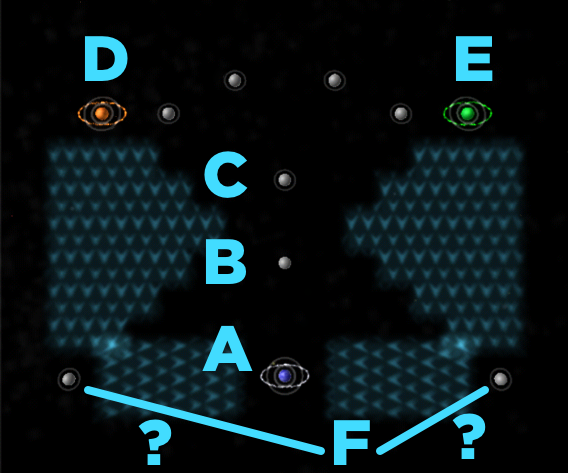
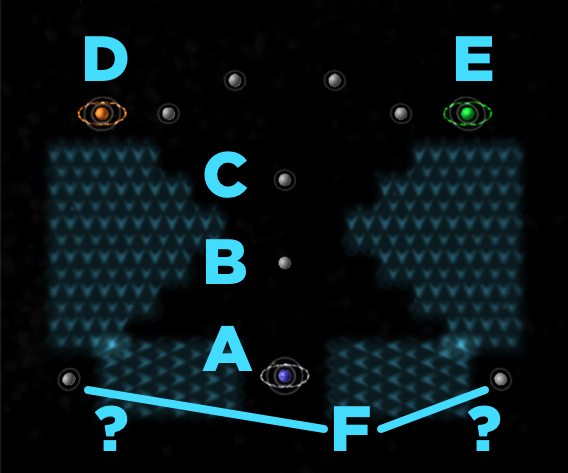
[13-bootes-force/shortcut] Add note about sending units to planet F.

Changed region(s): [[0.1496, 0.7992, 0.8979, 1.0]]

diff --git a/constellations/13-bootes-force/shortcut.md b/constellations/13-bootes-force/shortcut.md
@@ -10,9 +10,9 @@
 
 ## Steps
 
-1. Goal: A⇧L3: Repeat A↠A.
-2. Goal: B⇧L1: Repeat A↠B.
-3. Goal: C⇧L2: Repeat (all)↠C. (≈0:45 elapsed)
+1. Goal: A⇧L3. Repeat A↠A.
+2. Goal: B⇧L1. Repeat A↠B.
+3. Goal: C⇧L2. Repeat (all)↠C. (≈0:45 elapsed)
 4. Goal: Hoard units on B. Repeat (all)↠B.
 5. Goal: Lose A and C. Wait for other players to wipe them out. (≈1:30 elapsed)
 6. Goal: D⇧3 and E⇧3. Split the units from B in half and send each one horizontally through the force field, then near their respective planets, and ambush. (≈2:00 elapsed)
@@ -29,3 +29,4 @@
 ## Notes
 
 - ⁴ I hoard all units on C until one of the other players attacks, then immediately move all units to B. This is intended to delay attacks from other players, though I don't know if it works.
+- ⁸ You may need to target units to the far to the side. Targeting F directly loses units into the middle due to the force field.
